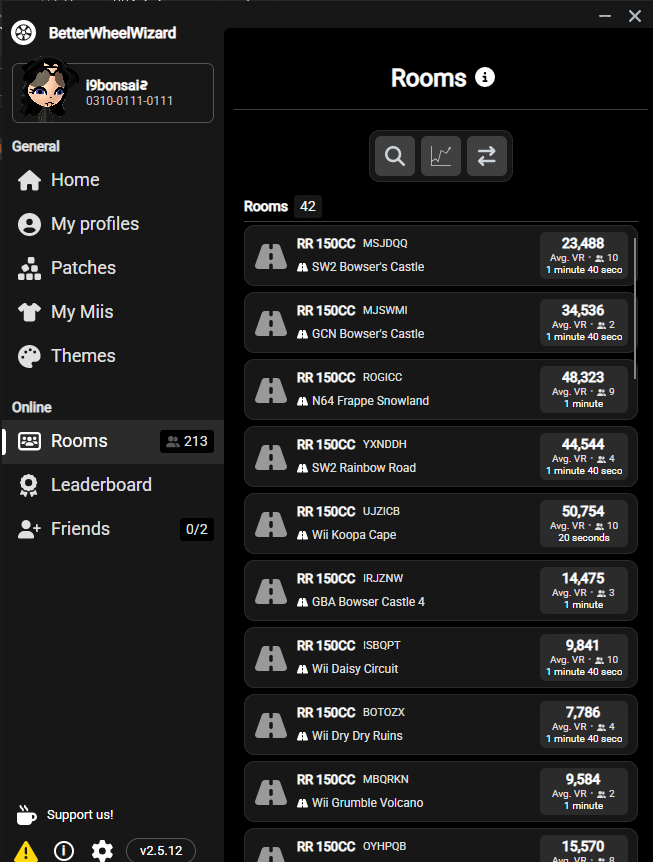
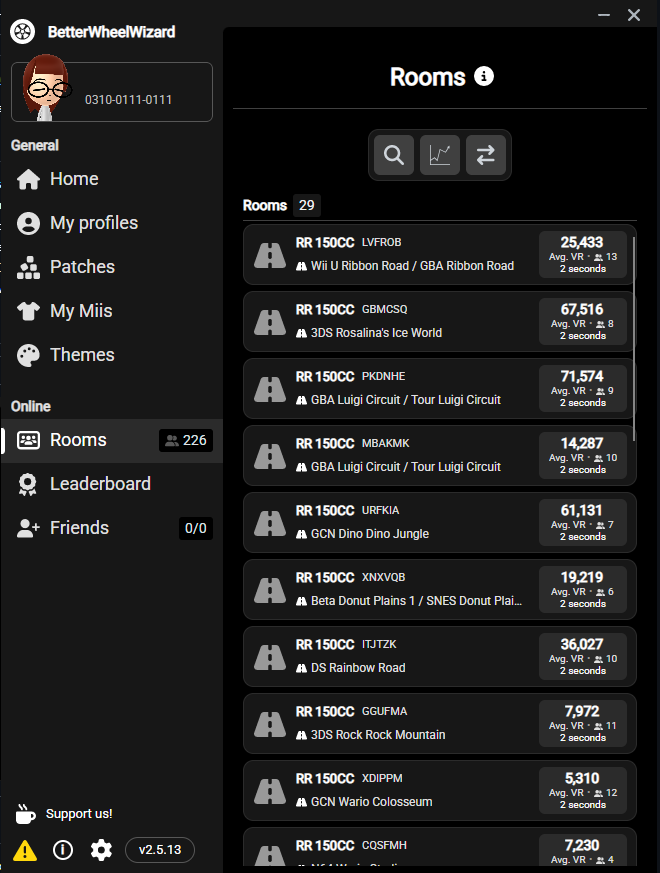
Highlight BetterWheelWizard quality-of-life features

diff --git a/README.md b/README.md
@@ -10,18 +10,19 @@ The Windows build is standalone. It does not need an installer or a separate .NE
 
 ## Features
 
-- Launch and update Retro Rewind
-- Browse rooms and search the RWFC leaderboard
-- Find, import, and manage Miis
-- Create and share launcher themes
+- Search the RWFC leaderboard by player name or friend code
+- Browse rooms with quick search, VR filters, and sorting
+- Find, import, edit, and manage Miis
+- Create, save, share, and import custom launcher themes
 - Back up Mario Kart Wii saves and Retro Rewind ratings
-- Use Dolphin or WiiCompiled
+- Enjoy cleaner popups, compact controls, and other QoL improvements
+- Launch Retro Rewind with Dolphin or WiiCompiled
 
 ## Screenshots
 
-| Themes | Leaderboard |
-| --- | --- |
-| [![Custom themes](docs/screenshots/custom-themes.png)](docs/screenshots/custom-themes.png) | [![Leaderboard](docs/screenshots/better-leaderboard.png)](docs/screenshots/better-leaderboard.png) |
+| Themes | Leaderboard | Rooms |
+| --- | --- | --- |
+| [![Custom themes](docs/screenshots/custom-themes.png)](docs/screenshots/custom-themes.png) | [![Leaderboard](docs/screenshots/better-leaderboard.png)](docs/screenshots/better-leaderboard.png) | [![Rooms](docs/screenshots/better-rooms.png)](docs/screenshots/better-rooms.png) |
 
 ## Setup
 
